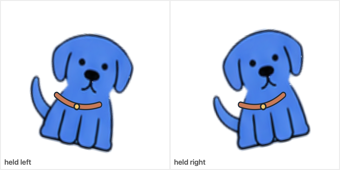
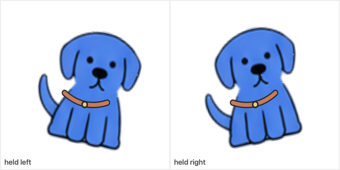
Attach dog collar to cursor during drag

Changed region(s): [[0.5882, 0.1471, 0.9118, 0.9118], [0.0882, 0.1765, 0.4412, 0.9118]]

diff --git a/Sources/Pet/PetController.swift b/Sources/Pet/PetController.swift
@@ -103,10 +103,13 @@ final class PetController: NSObject, NSMenuDelegate {
     private var pressed = false
     private var pressStart = CGPoint.zero
     private var pressOrigin = CGPoint.zero
+    private var dragPointer = CGPoint.zero
+    private var dragCursorPushed = false
     private var lastDragX: CGFloat = 0
     private var dragVelocity: CGFloat = 0
     private var tilt: CGFloat = 0
     private var releasedAt: TimeInterval = -1000
+    private var fallingAfterDrag = false
 
     // landing / pulses
     private var landFrom = CGPoint.zero
@@ -364,6 +367,11 @@ final class PetController: NSObject, NSMenuDelegate {
     var bodyCenterOnScreen: CGPoint {
         let y = PetGeometry.bodyBottom + (PetGeometry.bodyCenter.y - PetGeometry.bodyBottom) * petScale
         return CGPoint(x: origin.x + PetGeometry.bodyCenter.x, y: origin.y + y)
+    }
+    private var collarPointOnScreen: CGPoint {
+        let point = PetGeometry.collarPoint
+        let y = PetGeometry.bodyBottom + (point.y - PetGeometry.bodyBottom) * petScale
+        return CGPoint(x: origin.x + point.x, y: origin.y + y)
     }
     private var refPoint: CGPoint { bodyCenterOnScreen }
     private var typing: Bool { keyIdle < 3 }
@@ -633,7 +641,9 @@ final class PetController: NSObject, NSMenuDelegate {
         case .poked:
             if stateTime > 0.5 { enterIdle() }
         case .dragging:
-            break
+            updateHeldDragPosition()
+            bedPanel.place(in: currentScreen.visibleFrame)
+            bedPanel.dropHighlighted = bedPanel.acceptsDrop(at: dragPointer, dogRect: hitRectOnScreen)
         case .shrinking:
             updateShrink(dt: dt)
         case .strolling:
@@ -642,7 +652,7 @@ final class PetController: NSObject, NSMenuDelegate {
             updateGrow(dt: dt, mouse: mouse)
         case .landing:
             let p = min(1, stateTime / landDuration)
-            let e = 1 - pow(1 - p, 3)
+            let e = fallingAfterDrag ? p * p : 1 - pow(1 - p, 3)
             setOrigin(CGPoint(x: landFrom.x + (landTo.x - landFrom.x) * e,
                               y: landFrom.y + (landTo.y - landFrom.y) * e))
             if p >= 1 {
@@ -1033,10 +1043,10 @@ final class PetController: NSObject, NSMenuDelegate {
             if p > 0.32 && p < 0.44 { sy = 0.86; sx = 1.08 }
             bob = NSWorkspace.shared.accessibilityDisplayShouldReduceMotion ? 0 : max(0, sin(p * .pi)) * 3
         case .dragging:
-            let wriggle = NSWorkspace.shared.accessibilityDisplayShouldReduceMotion ? 0 : sin(t * 21)
-            sy = 1.07 + 0.018 * wriggle
-            sx = 0.95 - 0.018 * wriggle
-            bob = NSWorkspace.shared.accessibilityDisplayShouldReduceMotion ? 0 : 1.3 * sin(t * 17)
+            let wriggle = NSWorkspace.shared.accessibilityDisplayShouldReduceMotion ? 0 : sin(t * 34)
+            sy = 1.07 + 0.025 * wriggle
+            sx = 0.94 - 0.025 * wriggle
+            bob = 0  // keep the collar fixed to the cursor; only the body wriggles
         case .shrinking, .strolling, .growing, .landing:
             bob = 0
         }
@@ -1082,10 +1092,10 @@ final class PetController: NSObject, NSMenuDelegate {
             let vx = (origin.x - lastDragX) / max(dtf, 0.001)
             lastDragX = origin.x
             dragVelocity = approach(dragVelocity, vx, rate: 10, dt: dtf)
-            let wriggle: CGFloat = NSWorkspace.shared.accessibilityDisplayShouldReduceMotion
-                ? 0 : 0.10 * sin(t * 21) + 0.035 * sin(t * 34)
-            let target = max(-0.20, min(0.20, -dragVelocity * 0.00035 + wriggle))
-            tilt = approach(tilt, target, rate: 14, dt: dtf)
+            let reduced = NSWorkspace.shared.accessibilityDisplayShouldReduceMotion
+            let wriggle: CGFloat = reduced ? 0 : 0.15 * sin(t * 34) + 0.025 * sin(t * 11)
+            let target: CGFloat = reduced ? 0 : max(-0.22, min(0.22, -dragVelocity * 0.00020 + wriggle))
+            tilt = approach(tilt, target, rate: 22, dt: dtf)
         } else {
             tilt = approach(tilt, 0, rate: 8, dt: dtf)
         }
@@ -1128,6 +1138,7 @@ final class PetController: NSObject, NSMenuDelegate {
     private func enterIdle() {
         state = .idle
         stateTime = 0
+        fallingAfterDrag = false
         nextDecisionIn = Double.random(in: 4...10)
     }
 
@@ -1237,10 +1248,11 @@ final class PetController: NSObject, NSMenuDelegate {
         edge = (hugEdges && edgeDistance < 150) ? nearestEdge(in: f) : .free
         var from = origin
         if edge == .bottom || edge == .top || edge == .free {
-            let toss = max(-250, min(250, dragVelocity * 0.25))
+            let toss = max(-28, min(28, dragVelocity * 0.025))
             from.x += toss
-            if abs(toss) > 40 { pose.facing = toss > 0 ? 1 : -1 }
+            if abs(toss) > 16 { pose.facing = toss > 0 ? 1 : -1 }
         }
+        if edge == .free { from.y -= 20 * petScale }
         landTo = edgeTarget(for: edge, in: f, from: from)
         landFrom = origin
         if edge == .left { pose.facing = 1 } else if edge == .right { pose.facing = -1 }
@@ -1253,6 +1265,7 @@ final class PetController: NSObject, NSMenuDelegate {
             return
         }
         landDuration = min(max(Double(dist) / 1500, 0.22), 0.65)
+        fallingAfterDrag = true
         state = .landing
         stateTime = 0
     }
@@ -1377,6 +1390,7 @@ final class PetController: NSObject, NSMenuDelegate {
         pressed = true
         pressStart = p
         pressOrigin = origin
+        dragPointer = p
         lastDragX = origin.x
         dragVelocity = 0
         if state == .strolling { grow(fast: true, openPanel: false) }
@@ -1384,6 +1398,7 @@ final class PetController: NSObject, NSMenuDelegate {
 
     func petMouseDragged(to p: CGPoint) {
         guard pressed else { return }
+        dragPointer = p
         if state != .dragging {
             if hypot(p.x - pressStart.x, p.y - pressStart.y) < 4 { return }
             if followingCursor { setFollowingCursor(false, saveOnStop: false) }
@@ -1393,18 +1408,36 @@ final class PetController: NSObject, NSMenuDelegate {
             stateTime = 0
             curiousT = -1
             curiousTilt = 0
+            if !selfTesting && !dragCursorPushed {
+                NSCursor.closedHand.push()
+                dragCursorPushed = true
+            }
             if launchPanel.isShown { launchPanel.hide() }
             panelCooldownUntil = time + 0.6
         }
-        setOrigin(CGPoint(x: pressOrigin.x + (p.x - pressStart.x), y: pressOrigin.y + (p.y - pressStart.y)))
+        updateHeldDragPosition()
         bedPanel.place(in: currentScreen.visibleFrame)
         bedPanel.dropHighlighted = bedPanel.acceptsDrop(at: p, dogRect: hitRectOnScreen)
+    }
+
+    private func updateHeldDragPosition() {
+        let grip = PetGeometry.collarPoint
+        let localY = PetGeometry.bodyBottom + (grip.y - PetGeometry.bodyBottom) * petScale
+        let q = min(1, max(0, stateTime / 0.18))
+        let attach = q * q * (3 - 2 * q)
+        let initialOffset = CGPoint(x: pressStart.x - pressOrigin.x - grip.x,
+                                    y: pressStart.y - pressOrigin.y - localY)
+        setOrigin(CGPoint(x: dragPointer.x - grip.x + initialOffset.x * (1 - attach),
+                          y: dragPointer.y - localY + initialOffset.y * (1 - attach)))
     }
 
     func petMouseUp(at p: CGPoint) {
         guard pressed else { return }
         pressed = false
+        if dragCursorPushed { NSCursor.pop(); dragCursorPushed = false }
         if state == .dragging {
+            dragPointer = p
+            updateHeldDragPosition()
             if bedPanel.acceptsDrop(at: p, dogRect: hitRectOnScreen) { enterBed() }
             else { bedPanel.dropHighlighted = false; release() }
         }
@@ -1773,6 +1806,8 @@ final class PetController: NSObject, NSMenuDelegate {
         let c = bodyCenterOnScreen
         petMouseDown(at: c); petMouseDragged(to: CGPoint(x: c.x + 60, y: c.y + 30)); step(0.2)
         expect(state == .dragging && pose.held, "dragging uses the held-dog pose")
+        expect(hypot(collarPointOnScreen.x - c.x - 60, collarPointOnScreen.y - c.y - 30) < 2,
+               "the held collar stays under the pointer")
         petMouseUp(at: CGPoint(x: c.x + 60, y: c.y + 30)); step(0.05)
         expect(!pose.held && state != .dragging, "dropping releases the collar pose")
         step(2)

diff --git a/Sources/Pet/PetView.swift b/Sources/Pet/PetView.swift
@@ -172,9 +172,7 @@ final class PetView: NSView {
 
         let s = PetGeometry.spriteScale
         // When held, the upper body stays near the grab point and the paws swing below it.
-        let pivot = p.held
-            ? CGPoint(x: PetGeometry.bodyCenter.x, y: PetGeometry.bodyBottom + 82)
-            : CGPoint(x: PetGeometry.bodyCenter.x, y: PetGeometry.bodyBottom)
+        let pivot = p.held ? PetGeometry.collarPoint : CGPoint(x: PetGeometry.bodyCenter.x, y: PetGeometry.bodyBottom)
         ctx.saveGState()
         ctx.translateBy(x: pivot.x, y: pivot.y + p.bob)
         if !napping {

diff --git a/Sources/Pet/PetPose.swift b/Sources/Pet/PetPose.swift
@@ -105,6 +105,7 @@ enum PetGeometry {
     /// Dog sprites are up to 170 px wide and tall. Idle stands about 108 pt tall.
     static let spriteScale: CGFloat = 0.82
     static let bodyCenter = CGPoint(x: 85, y: 74)   // unchanged: the controller's grab/dive thresholds hang off this
+    static let collarPoint = CGPoint(x: 85, y: 68) // shared visual/pointer anchor while picked up
     static let bodyHalfWidth: CGFloat = 70
     static let bodyHalfHeight: CGFloat = 46          // bodyBottom 28 … bodyTop 120
     /// Half the drawn character's maximum height.

diff --git a/VISUALS-HANDOFF.md b/VISUALS-HANDOFF.md
@@ -24,7 +24,7 @@ Current character: the blue floppy-eared dog. This replaces the private robot at
 | 9 | Celebration | Not triggered yet |
 | 10–11 | Sixteen supplied rotation views | Only the forward-facing cells V1–V3 are used for cursor tracking; back and full-profile views remain in the atlas but are not selected by pointer direction |
 
-All non-walking triggered rows play three fast cycles then return to slow idle. Walk loops while `pose.walk` is nonzero. The sprite does not mirror; left and right walking have separate rows. Nap draws the actual curled-up frame without rotating the dog. While dragging, `pose.held` fixes the front-facing idle frame, draws a small collar beneath the face, and pivots the whole sprite near the neck so the paws swing instead of walking in mid-air. The controller supplies a gentle wriggle and a brief release settle; Reduce Motion suppresses both. Routine idle thought signals no longer select the repeated waiting row; the sprite path does not currently draw a thought bubble. No robot face-screen overlays or sound bars are drawn.
+All non-walking triggered rows play three fast cycles then return to slow idle. Walk loops while `pose.walk` is nonzero. The sprite does not mirror; left and right walking have separate rows. Nap draws the actual curled-up frame without rotating the dog. While dragging, `pose.held` fixes the front-facing idle frame, draws a small collar beneath the face, and pivots the whole sprite at `PetGeometry.collarPoint`, which the controller attaches to the cursor after a short pickup transition. The paws swing below the closed-hand cursor instead of walking in mid-air. The controller supplies a restrained struggle and a short fall-and-settle on release; Reduce Motion suppresses both. Routine idle thought signals no longer select the repeated waiting row; the sprite path does not currently draw a thought bubble. No robot face-screen overlays or sound bars are drawn.
 
 `pose.look.x` is a world-space direction. `SpriteAtlas.lookView` selects a front-facing pose from waiting F3–F4 (pointer above) or gaze V1–V3 (beside/below), mirroring the left/right turns as needed. Only the mirrored vector fallback converts the x direction to body-local coordinates. The pose renderer includes eight labelled pointer directions and uses the same selection and mirroring path as the live dog.
 

diff --git a/AGENTS.md b/AGENTS.md
@@ -138,6 +138,8 @@ The 2026-09-30 bed-size pass makes the empty crescent 44×30 pt and the occupied
 
 The 2026-10-07 drag pass makes picking up the dog feel like holding him by a collar: he shows a front-facing, four-paw pose with a small chest collar, pivots near the neck, and wriggles gently while held. On release the collar disappears immediately and a brief damped settle returns him to normal; Reduce Motion suppresses the shake and settle. The atlas itself is unchanged. Self-test covers held/released state, and the pose renderer includes left and right held examples. Release build, self-test, pose/ring/bed renders, installed signature, and running snapshot passed.
 
+The 2026-10-07 drag correction attaches the visible collar point to the cursor over a short pickup transition; the cursor becomes a closed hand while held. The sprite pivots at that same point, so the paws swing under the hand rather than the entire dog simply translating. The wriggle is stronger, a free-space release falls a short distance with restrained sideways momentum, and the existing settling motion restores the normal pose. Reduce Motion keeps the cursor attachment and omits the shake. Self-test checks collar-to-pointer alignment, release, bed drop, and ordinary movement; pose/ring/bed renders and the installed running snapshot passed.
+
 ## Known gaps / ideas not built
 
 - Sprite rows with no trigger yet: gentle oops, waiting, laptop, celebration. Wire a pose signal in the controller, then map it in the view.

diff --git a/README.md b/README.md
@@ -27,8 +27,8 @@ and gets out of the way while you work.
   to Trash; the originals stay where they were. **Undo** remains available until you close the shelf.
 - **Music**: when Spotify or Apple Music is playing, a player chip appears first in the ring;
   click it to play/pause (macOS asks once for permission).
-- **Move it**: pick the dog up and drag him anywhere. He dangles and wriggles from his collar,
-  then settles when released. Near an edge he tucks into it; elsewhere he stays put.
+- **Move it**: pick the dog up and drag him anywhere. The cursor holds his collar while he dangles and wriggles,
+  then he drops and settles when released. Near an edge he tucks into it; elsewhere he stays put.
 - **Let it sleep**: drag the dog onto the tiny cushion at the bottom-right edge and release.
   The cushion expands with a half-size sleeping dog, closed eyes and floating “Zz.” He stays there
   until you click the bed to wake him, even if you quit and reopen Pet.
